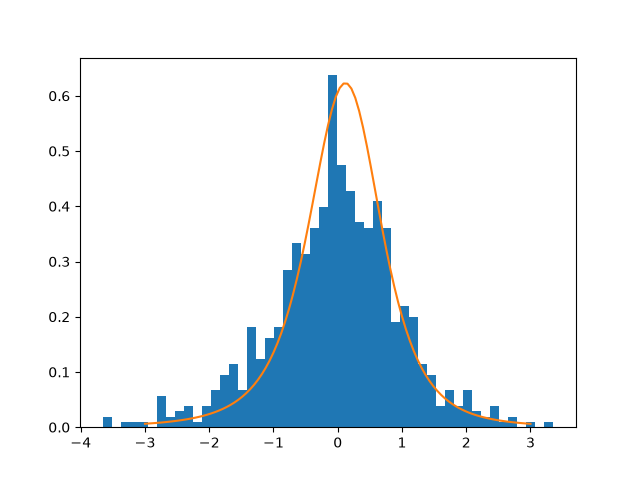
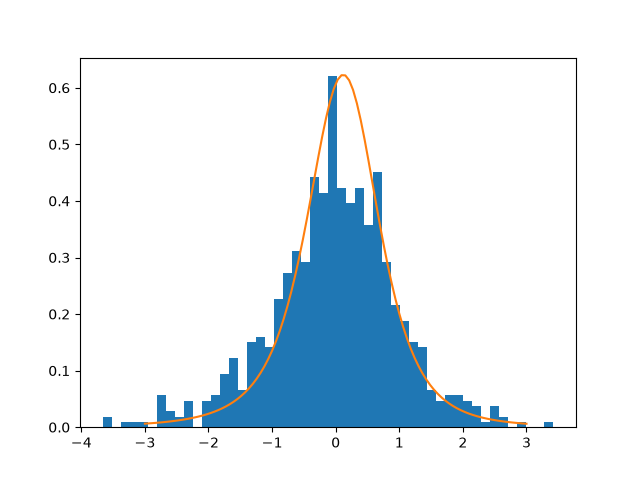
adding copula prototype

diff --git a/src/riskmodel/main.py b/src/riskmodel/main.py
@@ -1,7 +1,10 @@
 from logging import getLogger
 
 import hydra
+import numpy as np
+import pyvinecopulib as pv
 from omegaconf import OmegaConf
+from scipy.stats import jf_skew_t
 
 from riskmodel.config import Config
 from riskmodel.data.download import write
@@ -41,8 +44,6 @@ def main(omega_cfg: Config):
     ac_pvals = multi_ac_tests(market_data.df, cfg.test.lb_max_lag)
     print(ac_pvals)
 
-    logger.warning(f"{cfg.data.cash_tickers} probably requires ARMA modelling")
-
     logger.info("Performing heteroscedasticy tests")
     het_pvals = het_test(market_data.df)
     print(het_pvals)
@@ -74,16 +75,41 @@ def main(omega_cfg: Config):
     logger.info("Fitting skewed-t distributions to data")
     params = skew_t(market_data)
     print(params)
-    # import numpy as np
-    # from scipy.stats import jf_skew_t
-    # import matplotlib.pyplot as plt
 
-    # dist = jf_skew_t(*params["SPY"])
-    # x = np.linspace(-3, 3, 100)
-    # d = dist.pdf(x)
-    # plt.hist(garch_resid.df["SPY"], bins = 50, density = True)
-    # plt.plot(x,d)
-    # plt.savefig("test")
+    # od tego miejsca leci kod z czata, na razie tylko prototyp, nie ufać temu za bardzo
+
+    logger.info("Calculating theoretical CDF of skewed-t residuals for copula input")
+    residuals_df = garch_resid.df
+    u_data = np.zeros_like(residuals_df, dtype=float)
+
+    for i, ticker in enumerate(residuals_df.columns):
+        x = residuals_df[ticker].values
+        # Rozpakowujemy dopasowane parametry dla danego aktywa
+        a, b, loc, sc = params[ticker]
+
+        # Liczymy teoretyczną dystrybuantę (CDF) dla każdej reszty GARCH
+        u_data[:, i] = jf_skew_t.cdf(x, a, b, loc=loc, scale=sc)
+
+    # Zabezpieczenie przed wartościami dokładnie 0.0 lub 1.0 (ważne numerycznie dla kopul)
+    u_data = np.clip(u_data, 1e-10, 1.0 - 1e-10)
+
+    logger.info("Setting up and fitting the Vine Copula (Student-t)")
+    # Settings of copula - use t-student copula
+    controls = pv.FitControlsVinecop(family_set=[pv.BicopFamily.student])
+
+    # Fitting the copula using parametric pseudo-observations (CDF values)
+    copula = pv.Vinecop.from_data(u_data, controls=controls)
+    print(copula)
+
+    logger.info("Generating new data from copula")
+    new_data = copula.sample(n=500)
+    print(new_data)
+
+    # tutaj należy spowrotem przeskalować dane do formatu reszt z garch (przepuścić przez kwantylowe)
+    # potem żeby obliczyć symulowany dzień (kolejny po danych jakie mieliśmy) korzystamy z rówania GARCH
+    # można teraz obliczy VaR na dzień w przód
+    # żeby obliczyć VaR na 10 dni w przód trzeba 10 razy użyć równania GARCH
+    # taka jest głowna idea tego co zostało do roboty ale sam nie do końca wszystko rozumiem
 
 
 if __name__ == "__main__":

diff --git a/src/riskmodel/config.py b/src/riskmodel/config.py
@@ -4,11 +4,6 @@ from pathlib import Path
 from hydra.core.config_store import ConfigStore
 
 
-@dataclass()
-class ARIMAConfig:
-    order: tuple[int, ...] = (1, 0, 1)
-
-
 @dataclass
 class GARCHConfig:
     order: tuple[int, ...] = (1, 0, 1)
@@ -21,27 +16,25 @@ class TestConfig:
 
 
 @dataclass()
-class TailConfig:
-    type: str = "TAIL"
-    accuracy: float = 0.5
-
-
-@dataclass()
 class DataConfig:
     start_date: str = "1900-01-01"
     file_path: Path = Path("data/price_data.csv")
     crypto_tickers: tuple[str, ...] = ("btcusd",)
-    cash_tickers: tuple[str, ...] = ("BIL",)
-    oth_tickers: tuple[str, ...] = ("GLD", "SPY", "QQQ", "TLT", "BIL", "XLP", "XLV")
-    scaling_factors: tuple[float, ...] = (100, 100, 10000, 100, 10000, 10000, 100, 10)
+    oth_tickers: tuple[str, ...] = (
+        "GLD",
+        "SPY",
+        "QQQ",
+        "TLT",
+        "XLP",
+        "XLV",
+    )  # temporarily removing BIL, has scaling factor 10000
+    scaling_factors: tuple[float, ...] = (100, 100, 10000, 100, 10000, 100, 10)
 
 
 @dataclass()
 class Config:
     data: DataConfig = field(default_factory=DataConfig)
-    arima: ARIMAConfig = field(default_factory=ARIMAConfig)
     garch: GARCHConfig = field(default_factory=GARCHConfig)
-    tail: TailConfig = field(default_factory=TailConfig)
     test: TestConfig = field(default_factory=TestConfig)
 
 
